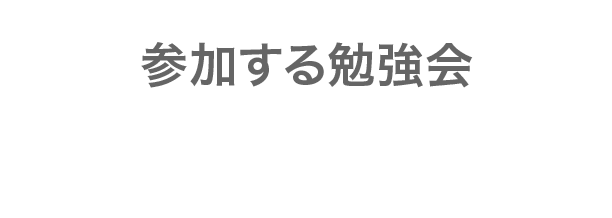
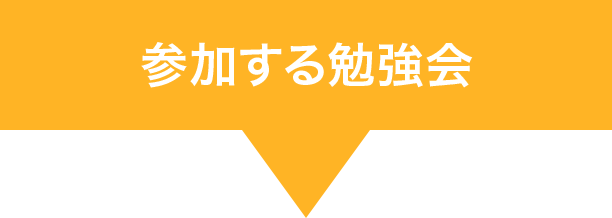
質問ページから戻るボタンを修正

diff --git a/app/webroot/css/seminars.css b/app/webroot/css/seminars.css
@@ -336,6 +336,20 @@ section .wrapper dl dd .btnArea > a:first-child {
     text-align: center;
 }
 
+#backSeminarDetails {
+	position: relative;
+	width: 978px;
+	margin: 0 auto;
+}
+
+#backSeminarDetails img {
+	position: absolute;
+	left: 0;
+	bottom: 0;
+	width: 222px;
+	height: 50px;
+}
+
 .whiteWrapper {
 	width: 100%;
 	margin-bottom: 40px;
@@ -347,20 +361,6 @@ section .wrapper dl dd .btnArea > a:first-child {
 	position: relative;
 	width: 978px;
 	margin: 0 auto;
-}
-
-#backSeminarDetails {
-	position: relative;
-	width: 978px;
-	margin: 0 auto;
-}
-
-#backSeminarDetails img {
-	position: absolute;
-	right: 0;
-	bottom: -32px;
-	width: 222px;
-	height: 50px;
 }
 
 #questionTitle h3 {
@@ -428,8 +428,5 @@ section .wrapper dl dd .btnArea > a:first-child {
 	margin-bottom: 20px;
 }
 
-
-#backSeminarDetails {
-	width: 978px;
-	margin: 0 auto;
-}
+/* Feedback
+----------------------------------------------------------------------*/

diff --git a/app/webroot/js/feedback.js b/app/webroot/js/feedback.js
@@ -1,0 +1,35 @@
+// フィードバック処理
+$(function () {
+	// GJボタンがクリックされたら
+	$('button#gj').click(function(e) {
+		// ajax通信
+		$.post('/plusstudy/Seminars/gj', {
+				seminar_id: $('input#seminar_id').val()
+			}, function(res) {
+				if(res.result == true) {
+					// GJを加算
+					var cnt = parseInt($('#gjcnt').text()) + 1;
+					$('#gjcnt').text(cnt);
+					// GJボタンを削除
+					$('button#gj').remove();
+				} else {
+					return;
+				}
+		}, "json");
+	});
+
+	// 解決ボタンがクリックされたら
+	$('button#resolve').click(function(e) {
+		// ajax通信
+		$.post('/plusstudy/Seminars/resolve', {
+				teach_me_id: $('input#teach_me_id').val()
+			}, function(res) {
+				if(res.result == true) {
+					// 解決ボタンを削除
+					$('button#resolve').remove();
+				} else {
+					return;
+				}
+		}, "json");
+	});
+});

diff --git a/app/Controller/AccountsController.php b/app/Controller/AccountsController.php
@@ -148,7 +148,7 @@ class AccountsController extends AppController {
 		$dt->setTimeZone(new DateTimeZone('Asia/Tokyo'));
 		$today = $dt->format('Y-m-d');
 		foreach($participants as $participant) {
-			if(strtotime($participant['Seminar']['end']) < strtotime($today)) {
+			if(strtotime($participant['Seminar']['end']) > strtotime($today)) {
 				// セッション作成
 				$this->Session->write('participant', $participant);
 
